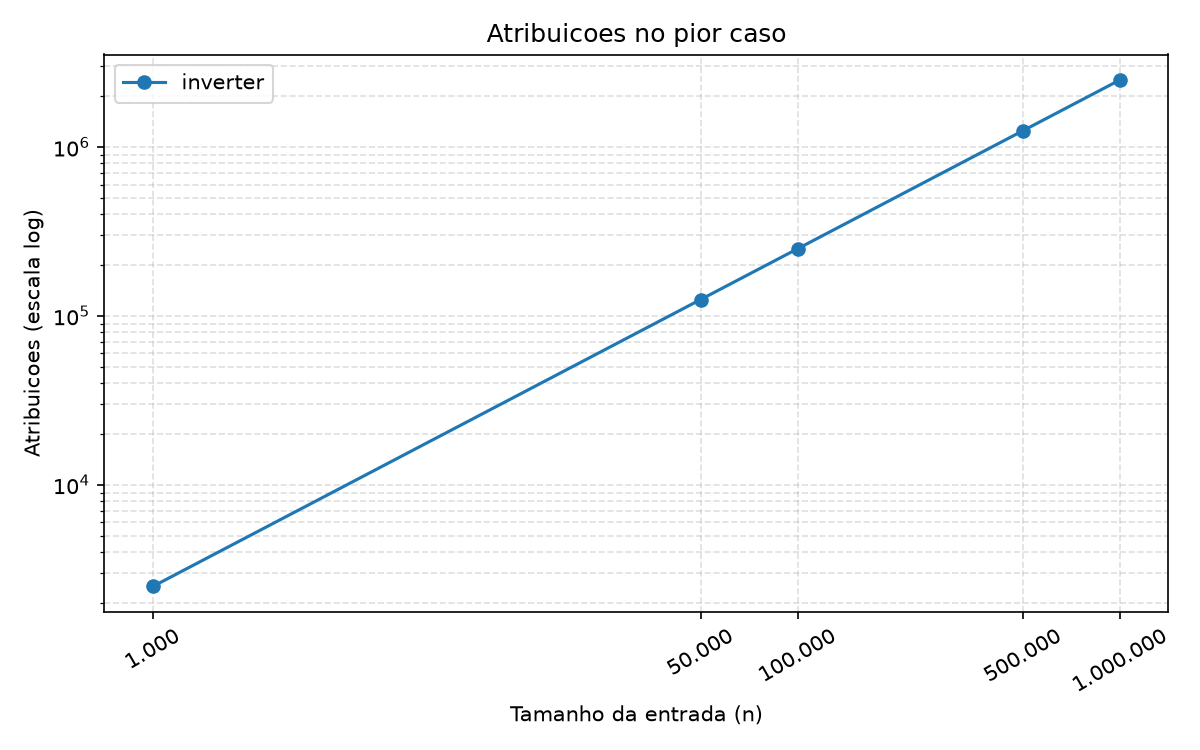
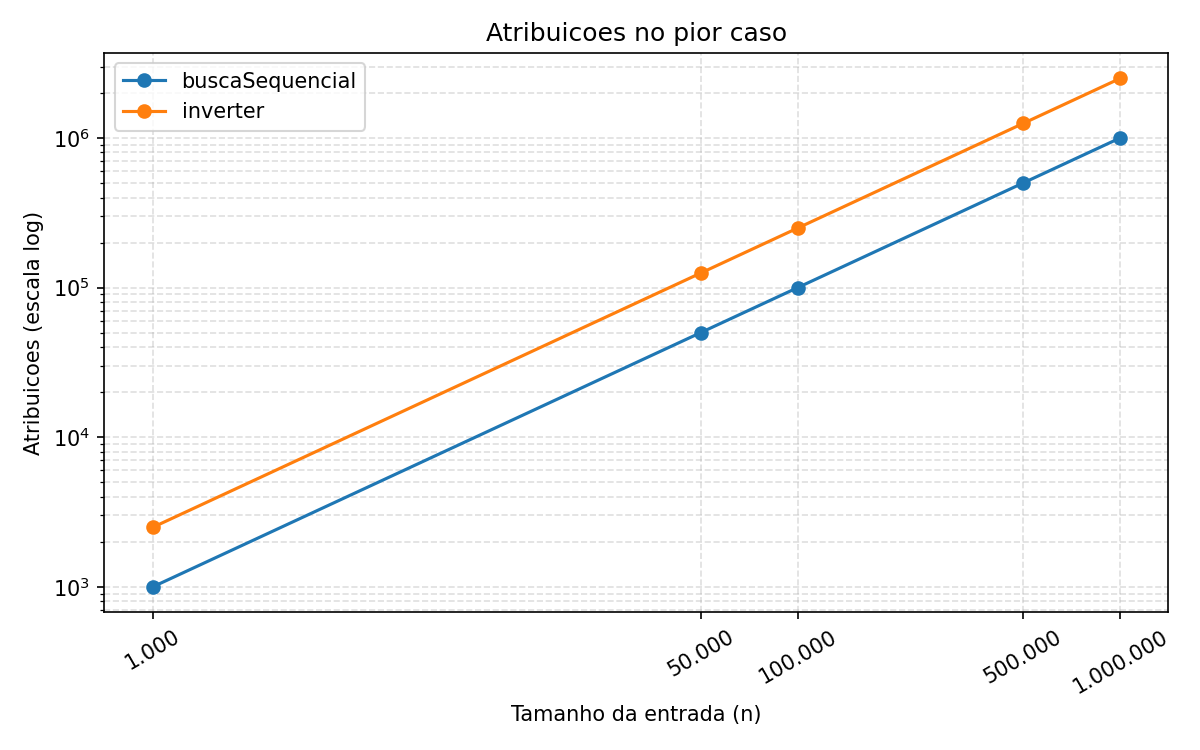
Atualiza relatorio e graficos

diff --git a/relatorio.md b/relatorio.md
@@ -181,25 +181,15 @@ esperado.
 
 | n | tempo médio (s) | comparações (medido) | comparações (teórico) | atribuições (medido) | atribuições (teórico) |
 |---|---|---|---|---|---|
-| 1.000 | - | - | 2.001 | - | 1.001 |
-| 50.000 | - | - | 100.001 | - | 50.001 |
-| 100.000 | - | - | 200.001 | - | 100.001 |
-| 500.000 | - | - | 1.000.001 | - | 500.001 |
-| 1.000.000 | - | - | 2.000.001 | - | 1.000.001 |
+| 1.000 | 0,000000521 | 2.001 | 2.001 | 1.001 | 1.001 |
+| 50.000 | 0,000024338 | 100.001 | 100.001 | 50.001 | 50.001 |
+| 100.000 | 0,000048707 | 200.001 | 200.001 | 100.001 | 100.001 |
+| 500.000 | 0,000254083 | 1.000.001 | 1.000.001 | 500.001 | 500.001 |
+| 1.000.000 | 0,000555682 | 2.000.001 | 2.000.001 | 1.000.001 | 1.000.001 |
 
 ![100 medições de tempo da busca sequencial, por tamanho](graficos/buscaSequencial_100_medicoes.png)
 
-**Discussão.** *(rascunho — confirmar com os dados)* *Espera-se que
-as contagens medidas coincidam com as teóricas (2n + 1 comparações e
-n + 1 atribuições), já que no pior caso — valor ausente — a busca
-sequencial sempre percorre o vetor inteiro, independentemente dos
-valores armazenados. O tempo médio deve crescer linearmente com `n`,
-com inclinação semelhante à do `inverter` no gráfico log-log, porém
-com constante um pouco maior: a busca visita todos os `n` elementos
-e faz duas comparações por elemento, enquanto o `inverter` visita
-apenas n/2 pares. Nas 100 medições individuais, espera-se
-estabilidade em torno da média, com eventuais picos isolados
-causados por interferência do sistema operacional.*
+**Discussão.** As contagens medidas coincidiram com as teóricas (2n + 1 comparações e n + 1 atribuições), já que no pior caso — valor ausente — a busca sequencial percorre o vetor inteiro, independentemente dos valores armazenados. O tempo médio cresceu aproximadamente de forma linear com `n`, como esperado para um algoritmo de complexidade O(n). No gráfico log-log, a inclinação é semelhante à do `inverter`, embora a busca sequencial apresente uma constante um pouco maior: ela visita todos os `n` elementos e realiza duas comparações por elemento, enquanto o `inverter` visita apenas n/2 pares. Nas 100 medições individuais, observa-se estabilidade em torno da média, com eventuais picos isolados causados por interferência do sistema operacional.
 
 ### 2.4 Busca Binária Iterativa (`buscaBinariaIterativa`)
 
